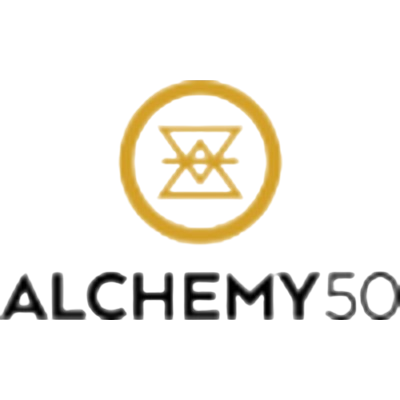
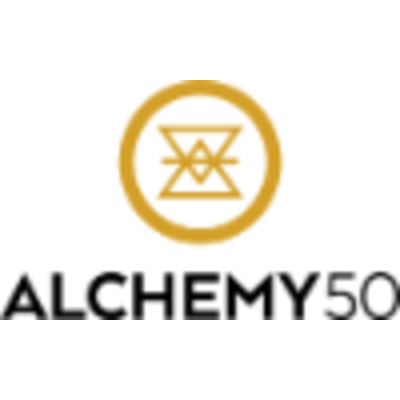
roles updates, replaced images to fit darker background

diff --git a/src/components/MyRoles/RolesList.vue b/src/components/MyRoles/RolesList.vue
@@ -9,8 +9,8 @@
         outlined
         color="transparent"
       >
-        <v-list lines="one" class="bg-grey-lighten-2">
-          <v-list-item :title="role.company" :subtitle="role.title" class="d-inline-block text-h4">
+        <div class="custom-list">
+          <v-list-item :title="role.company" :subtitle="role.title" class="d-block text-h4">
             <template v-slot:title="{ title }">
               <a :href="role.url" target="_blank" class="text-body-1 d-inline-block">
                 <v-tooltip :text="role.company">
@@ -35,31 +35,32 @@
               </span>
             </template>
 
-            <h6 class="text-h6 my-3">Responsibilites</h6>
+            <h5 class="text-h5 my-3">Responsibilites</h5>
 
             <v-list-item
               v-for="(duty, index) in role.duties"
               :key="index"
               :title="duty"
+              class="text-h4"
             ></v-list-item>
 
-            <h6 v-if="role?.projects" class="text-h6 my-3">Projects</h6>
+            <h5 v-if="role?.projects" class="text-h5 my-3">Projects</h5>
 
             <v-list-item v-for="(project, index) in role?.projects" :key="index">
               <div v-if="project.url != ''">
-                <a :href="project.url" target="_blank" class="text-h5">
+                <a :href="project.url" target="_blank" class="text-h5 navLink">
                   {{ project.name }}
                 </a>
                 <p class="text-body-1">{{ project.details }}</p>
               </div>
               <div v-if="project.url == ''">
-                <p class="text-h5">{{ project.name }}</p>
+                <h6 class="text-h6">{{ project.name }}</h6>
 
                 <p class="text-body-1">{{ project.details }}</p>
               </div>
             </v-list-item>
           </v-list-item>
-        </v-list>
+        </div>
       </v-card>
     </div>
   </div>

diff --git a/src/views/RolesView.vue b/src/views/RolesView.vue
@@ -4,15 +4,19 @@
       Interested in my career? Here are the details you seek!
     </h3>
 
+    <p class="text-center">
+      <a href="https://www.linkedin.com/in/andre-l-jordan" target="_blank" class="navLink"
+        >LinkedIn</a
+      >
+      |
+      <a href="../assets/Andre_Jordan_Resume.pdf" target="_blank" class="navLink" download
+        >Resume</a
+      >
+    </p>
+
     <v-container class="roles-container">
       <v-row>
-        <v-col cols="1">
-          <p>
-            <a href="https://www.linkedin.com/in/andre-l-jordan" target="_blank">LinkedIn</a> |
-            <a href="../assets/Andre_Jordan_Resume.pdf" target="_blank" download>Resume</a>
-          </p>
-          <!-- <roles-filter /> -->
-        </v-col>
+        <v-col cols="1"></v-col>
 
         <v-col cols="10">
           <roles-list />

diff --git a/src/assets/base.css b/src/assets/base.css
@@ -70,10 +70,6 @@ body {
   -moz-osx-font-smoothing: grayscale;
 }
 
-a {
-  text-decoration: none;
-}
-
 .link,
 .navLink {
   color: #6200ea;
@@ -95,3 +91,15 @@ a {
   margin-top: 5px;
   padding: 10px;
 }
+
+header,
+footer,
+.animated_card {
+  a {
+    text-decoration: none;
+  }
+}
+
+/* .animated_card a .v-card .v-title {
+  color: var(--color-text);
+} */
